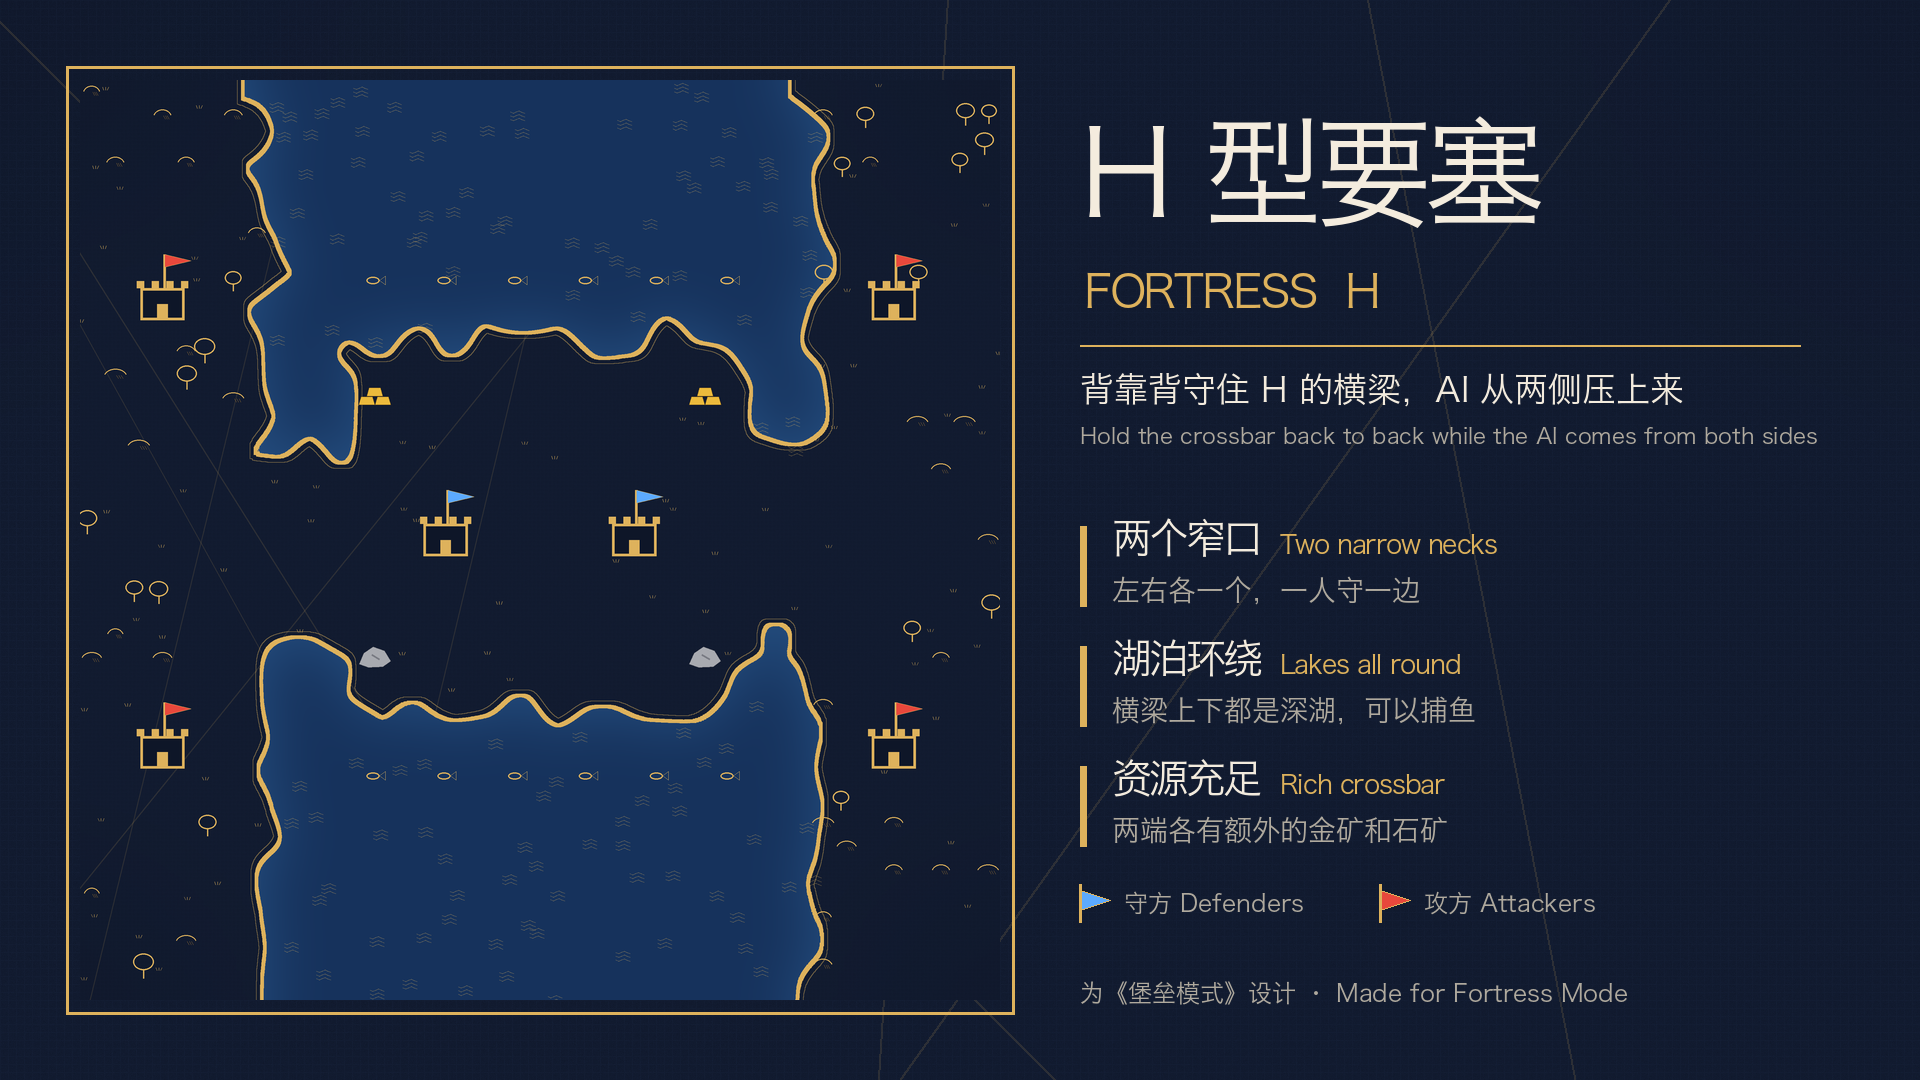
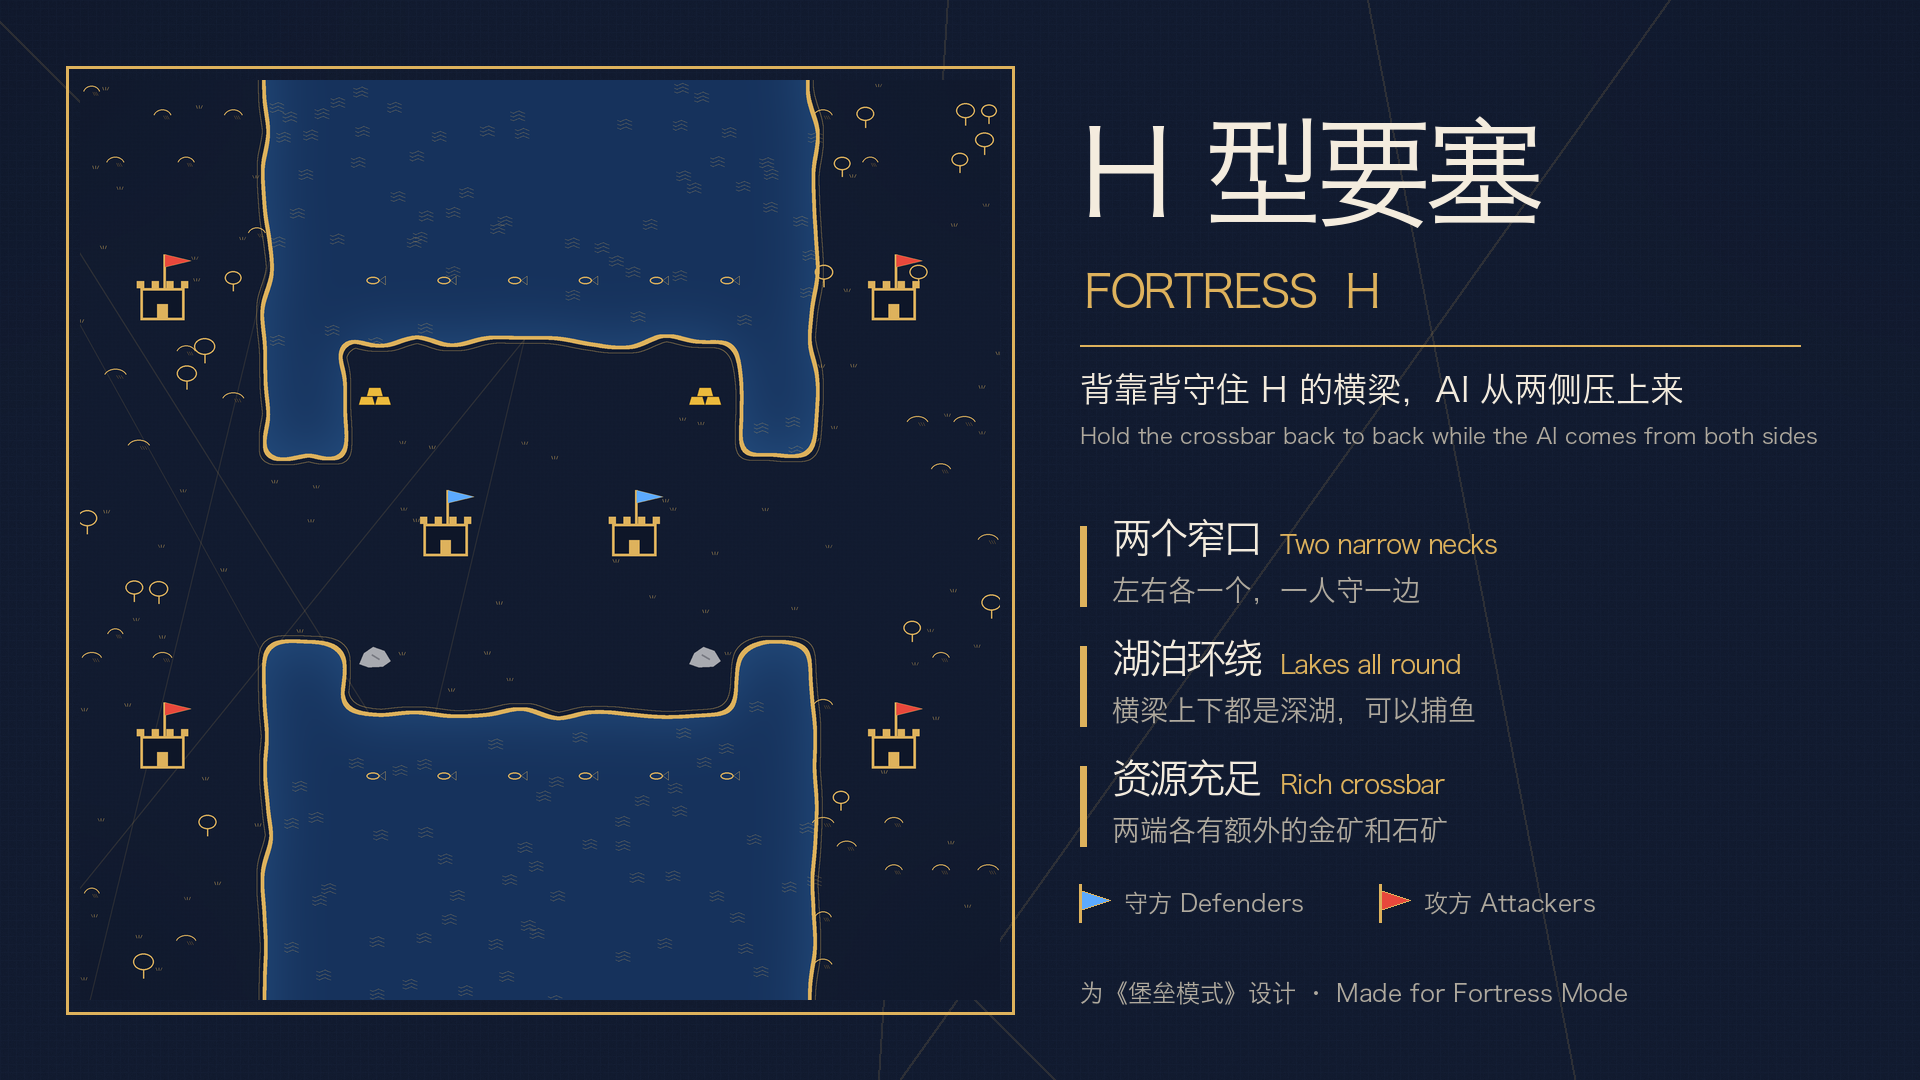
Fortress Pass and Hill: moats and land bridges instead of mountains
Same lessons as Fortress H: mountains made the camera jump, and forest or
cliffs leave a walkable strip at the shore. Pass basins are closed by a
moat with an 8-square land bridge each and a small bridge between basins.
The hill is a gentle rise with no cliffs, ringed by a moat with a pair
of 4-square bridges per defender; attackers sit on a square ring so the
corner starts keep clear of the moat. Both get shores and fish.

diff --git a/maps/tools/make_covers.py b/maps/tools/make_covers.py
@@ -42,11 +42,11 @@ MAPS = {
         "seed": 5,
         "title": "山顶要塞",
         "title_en": "FORTRESS  HILL",
-        "tagline": "大家一起守中央高地，每人两条相邻的坡道",
-        "tagline_en": "Hold the low plateau together, two close ramps for each defender",
+        "tagline": "大家一起守中央小山，每人两座相邻的陆桥",
+        "tagline_en": "Hold the moated hill together, two close bridges for each defender",
         "points": [
-            ("一人两口", "Two ramps each", "每位守方一对相邻的坡道"),
-            ("聚在一起", "Together", "守方出生点都在高地中央"),
+            ("一人两口", "Two bridges each", "每位守方一对相邻的陆桥"),
+            ("聚在一起", "Together", "守方出生点都在小山中央"),
             ("四面来敌", "Attacked from all sides", "攻方分布在地图四周"),
         ],
     },
@@ -54,11 +54,11 @@ MAPS = {
         "seed": 2,
         "title": "隘口要塞",
         "title_en": "FORTRESS  PASS",
-        "tagline": "每人一座盆地、一个隘口，山脊小路互相支援",
-        "tagline_en": "A walled basin and one narrow pass each, with a ridge path between",
+        "tagline": "每人一座盆地、一座陆桥，水道小桥互相支援",
+        "tagline_en": "A moated basin and one land bridge each, with a small bridge between",
         "points": [
-            ("一人一口", "One pass each", "每座盆地只有一个窄口"),
-            ("山脊小路", "Ridge path", "两座盆地之间有小路互通"),
+            ("一人一桥", "One bridge each", "每座盆地只有一座陆桥"),
+            ("水道小桥", "Linked basins", "两座盆地之间有小桥互通"),
             ("后方资源", "Safe resources", "盆地后方有额外的金矿和石矿"),
         ],
     },

diff --git a/maps/tools/map_art.py b/maps/tools/map_art.py
@@ -73,8 +73,8 @@ def _organic(mask, cell, rng, wobble=0.9):
     grid = np.array([[rng.random() for _ in range(coarse)] for _ in range(coarse)]) * 255
     noise = np.asarray(Image.fromarray(grid.astype(np.uint8)).resize((size, size), Image.BICUBIC), float)
     noise = (noise - noise.mean()) / (noise.std() + 1e-6)
-    soft = np.asarray(mask.filter(ImageFilter.GaussianBlur(cell * 0.7)), float) / 255
-    return Image.fromarray(((soft + noise * 0.22 * wobble) > 0.5).astype(np.uint8) * 255)
+    soft = np.asarray(mask.filter(ImageFilter.GaussianBlur(cell * 0.45)), float) / 255
+    return Image.fromarray(((soft + noise * 0.1 * wobble) > 0.5).astype(np.uint8) * 255)
 
 
 def _outline(mask, width):
@@ -95,7 +95,7 @@ def _gold_layer(image, mask, colour=GOLD, alpha=255):
 
 
 def _water(image, rows, cell, rng):
-    mask = _mask(rows, "~sf", image.size[0], 0.45)
+    mask = _mask(rows, "~sf", image.size[0], 0)
     if not mask.getbbox():
         return
     mask = _organic(mask, cell, rng)

diff --git a/maps/fortress_hill/publish/DESCRIPTION.md b/maps/fortress_hill/publish/DESCRIPTION.md
@@ -4,7 +4,7 @@
 
 ## 中文
 
-**大家一起守中央高地。** 守方的出生点聚在地图中央一块不高的高地上，四周是悬崖；每位守方带来一对相邻的坡道，所以每人都有两个挨得很近的口子要守。攻方散布在地图四周，从各个方向往坡道冲。
+**大家一起守中央高地。** 守方的出生点聚在地图中央一座平缓的小山上，四周是护城河；每位守方带来一对相邻的陆桥，所以每人都有两个挨得很近的口子要守。攻方散布在地图四周，从各个方向往陆桥冲。
 
 ### 地图
 
@@ -12,22 +12,23 @@
 |---|---|
 | 守方 | 人数较少的队伍，出生点都在高地中央，1～4 人都行 |
 | 攻方 | 另一队，均匀分布在地图四周 |
-| 通道 | 每位守方一对相邻的坡道，按左、右、上、下依次分配 |
-| 地势 | 高地只比平地高一点，看着自然，远程单位略占优势 |
+| 通道 | 每位守方一对相邻的陆桥，按左、右、上、下依次分配 |
+| 地势 | 平缓的小山，没有悬崖，镜头不会跳 |
+| 水域 | 护城河是深水，走不过去；内侧有浅滩，可以捕鱼、造码头 |
 | 资源 | 标准开局资源，高地四角各多一座金矿或石矿 |
 
 ### 怎么玩
 
 - 推荐配合游戏模式 **《堡垒模式》**：真人 + 若干 AI，AI 会一波波攻城。
 - 也可以当普通的团队对战图：人少的一方守，人多的一方攻。
-- 2 人守的话，坡道在左右两侧，一人守一边、背靠背。
+- 2 人守的话，陆桥在左右两侧，一人守一边、背靠背。
 - 所有真人放在同一队，AI 放在另一队。
 
 ---
 
 ## English
 
-**Hold the hill together.** The defenders start together on a low plateau in the middle of the map, ringed by cliffs. Each defender brings a pair of ramps close to each other, so every player has two nearby gaps to hold. The attackers are spread around the edge of the map and storm the ramps from every side.
+**Hold the hill together.** The defenders start together on a gentle hill in the middle of the map, ringed by a moat. Each defender brings a pair of land bridges close to each other, so every player has two nearby gaps to hold. The attackers are spread around the edge of the map and storm the bridges from every side.
 
 ### The map
 
@@ -35,13 +36,14 @@
 |---|---|
 | Defenders | The smaller team, starting together in the middle; one to four players |
 | Attackers | The other team, spread evenly around the edge |
-| Ways in | A pair of close ramps per defender, placed left, right, top and bottom in turn |
-| Height | The plateau is only a little higher than the plain: natural to look at, a small edge for ranged units |
+| Ways in | A pair of close land bridges per defender, placed left, right, top and bottom in turn |
+| Height | A gentle hill with no cliffs, so the camera stays steady |
+| Water | The moat is deep: no wading, but the inner side has a shore for fishing and docks |
 | Resources | The standard start, plus an extra gold or stone deposit in each corner of the plateau |
 
 ### How to play
 
 - Made for the **Fortress Mode** game mode: humans against AIs that send siege waves.
 - Also works as a plain team game: the smaller team defends, the larger one attacks.
-- With two defenders the ramps are on the left and right, so you hold one side each, back to back.
+- With two defenders the bridges are on the left and right, so you hold one side each, back to back.
 - Put all humans on one team and all AIs on the other.

diff --git a/maps/fortress_pass/publish/DESCRIPTION.md b/maps/fortress_pass/publish/DESCRIPTION.md
@@ -4,7 +4,7 @@
 
 ## 中文
 
-**一人一座盆地，一人一个隘口。** 守方在北边，每人一座被山围住的盆地，只有一个窄口通向外面；两座盆地之间的山脊上有条小路，可以互相支援。攻方在南边的开阔地上，从各个方向往隘口冲。
+**一人一座盆地，一人一个隘口。** 守方在北边，每人一座被护城河围住的盆地，只有一座陆桥通向外面；两座盆地之间隔着一条水道，中间有座小桥可以互相支援。攻方在南边的开阔地上，从各个方向往陆桥冲。
 
 ### 地图
 
@@ -12,22 +12,23 @@
 |---|---|
 | 守方 | 人数较少的队伍，每人一座盆地 |
 | 攻方 | 另一队，沿南边一字排开 |
-| 通道 | 每座盆地一个窄口，很窄，几段城墙就能封住 |
-| 支援 | 相邻盆地之间的山脊上有一条小路 |
+| 通道 | 每座盆地一座陆桥，两侧是深水，没有别的路 |
+| 支援 | 相邻盆地之间的水道上有一座小桥 |
+| 水域 | 护城河是深水，走不过去；盆地一侧有浅滩，可以捕鱼、造码头 |
 | 资源 | 标准开局资源，盆地后方多一座金矿和石矿，前期不用出门 |
 
 ### 怎么玩
 
 - 推荐配合游戏模式 **《堡垒模式》**：2 个真人 + 若干 AI，AI 会一波波攻城。
 - 也可以当普通的团队对战图：人少的一方守，人多的一方攻。
-- 1 个守方就是一座大盆地加一个口子；3 个守方就是三座盆地。
+- 1 个守方就是一座大盆地加一座陆桥；3 个守方就是三座盆地。
 - 所有真人放在同一队，AI 放在另一队。
 
 ---
 
 ## English
 
-**A basin and a pass for each defender.** The defenders hold the north, each in a basin walled in by mountains with a single narrow pass out. A path over the ridge links neighbouring basins so they can help each other. The attackers start on the open plain to the south and storm the passes.
+**A basin and a pass for each defender.** The defenders hold the north, each in a basin ringed by a moat with a single land bridge out. A small bridge over the channel between basins lets neighbours help each other. The attackers start on the open plain to the south and storm the bridges.
 
 ### The map
 
@@ -35,13 +36,14 @@
 |---|---|
 | Defenders | The smaller team, one basin each |
 | Attackers | The other team, spread along the south |
-| Ways in | One narrow pass per basin, narrow enough to close with a few wall sections |
-| Support | A path over the ridge between neighbouring basins |
+| Ways in | One land bridge per basin, with deep water on both sides and no other way in |
+| Support | A small bridge over the channel between neighbouring basins |
+| Water | The moat is deep: no wading, but the basin side has a shore for fishing and docks |
 | Resources | The standard start, plus an extra gold and stone deposit at the back of each basin |
 
 ### How to play
 
 - Made for the **Fortress Mode** game mode: two humans against AIs that send siege waves.
 - Also works as a plain team game: the smaller team defends, the larger one attacks.
-- One defender gets one big basin with one pass; three defenders get three basins.
+- One defender gets one big basin with one bridge; three defenders get three basins.
 - Put all humans on one team and all AIs on the other.
